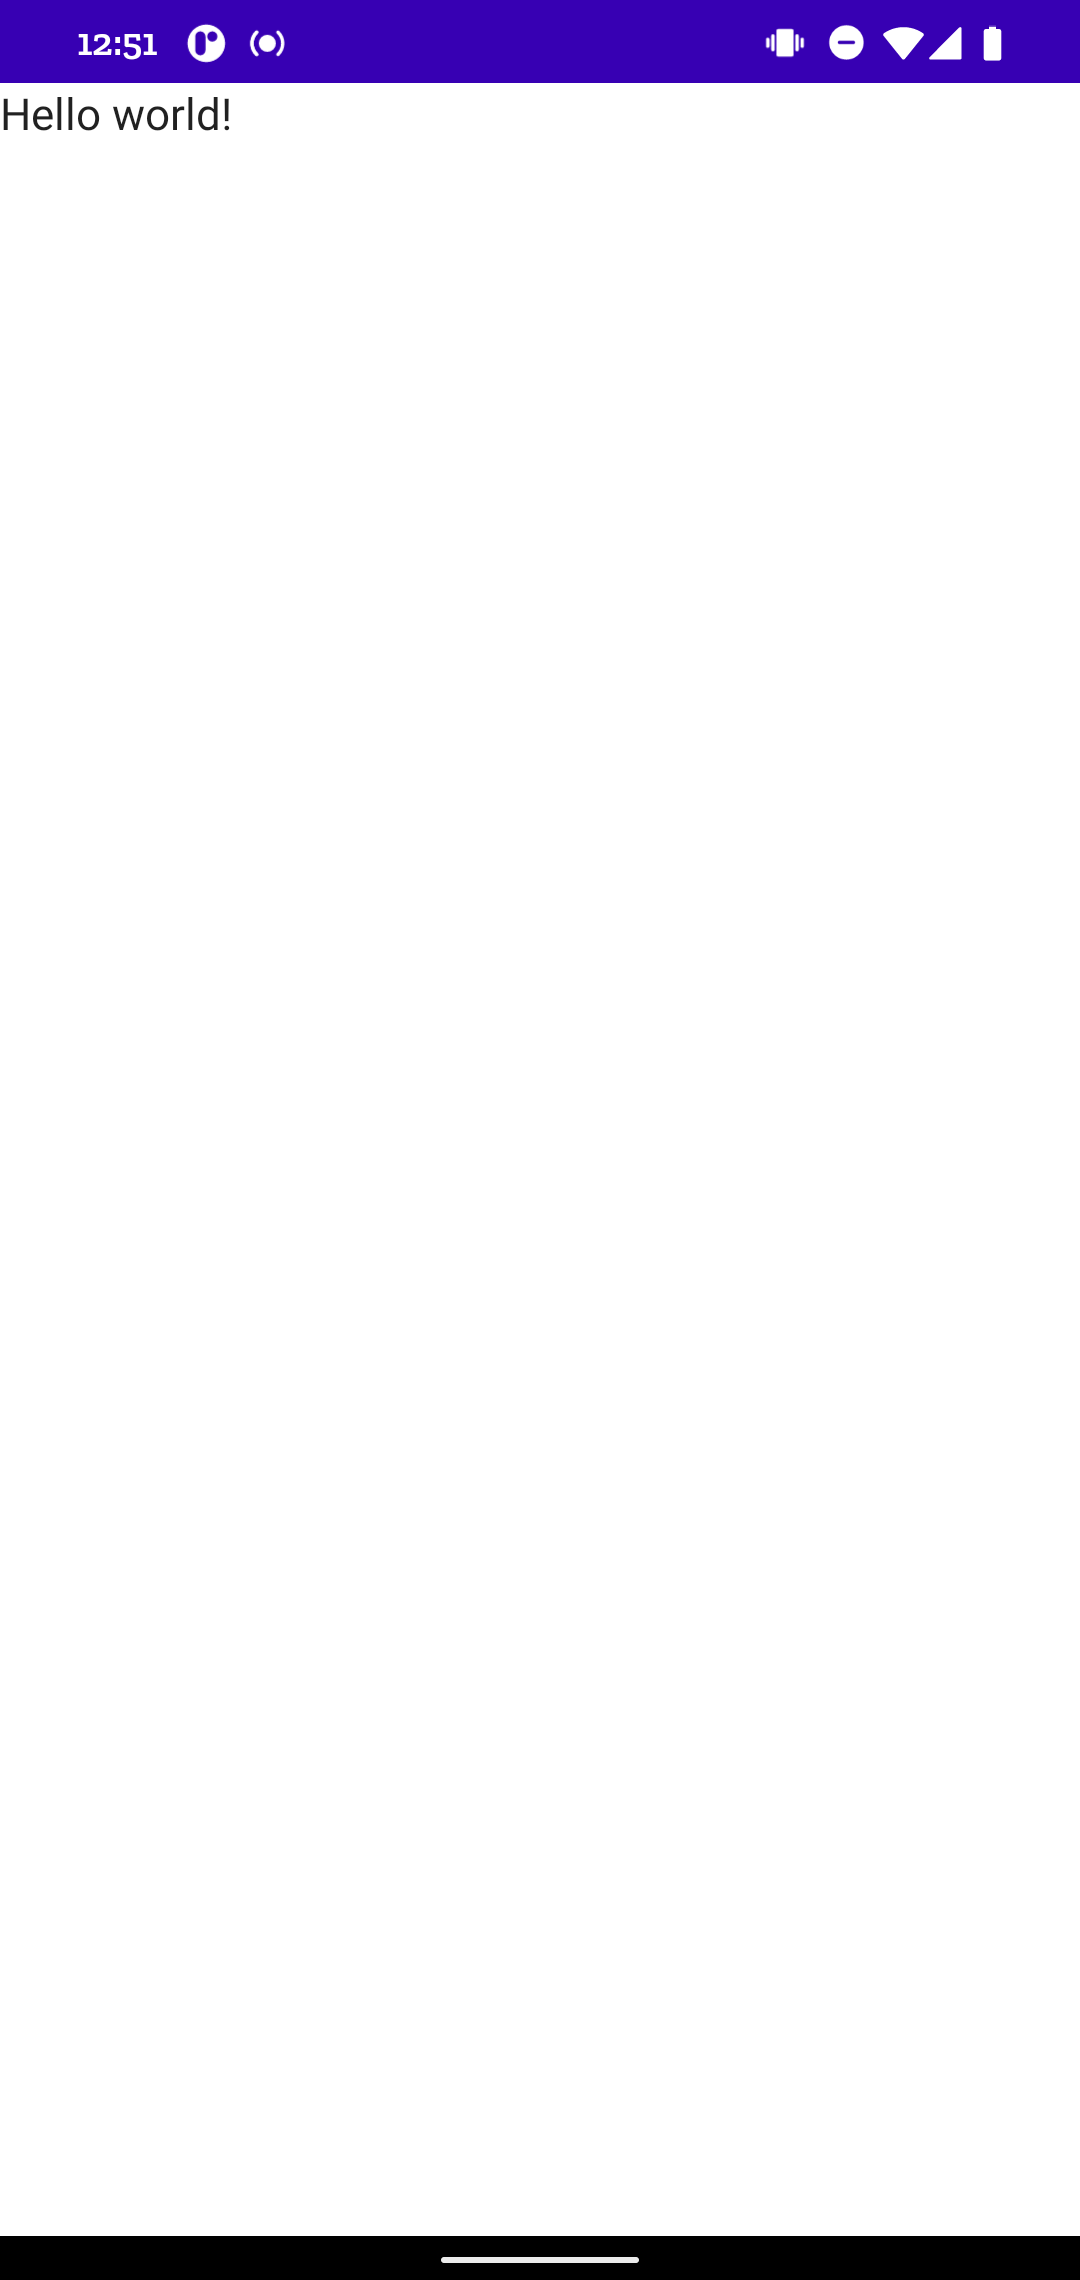
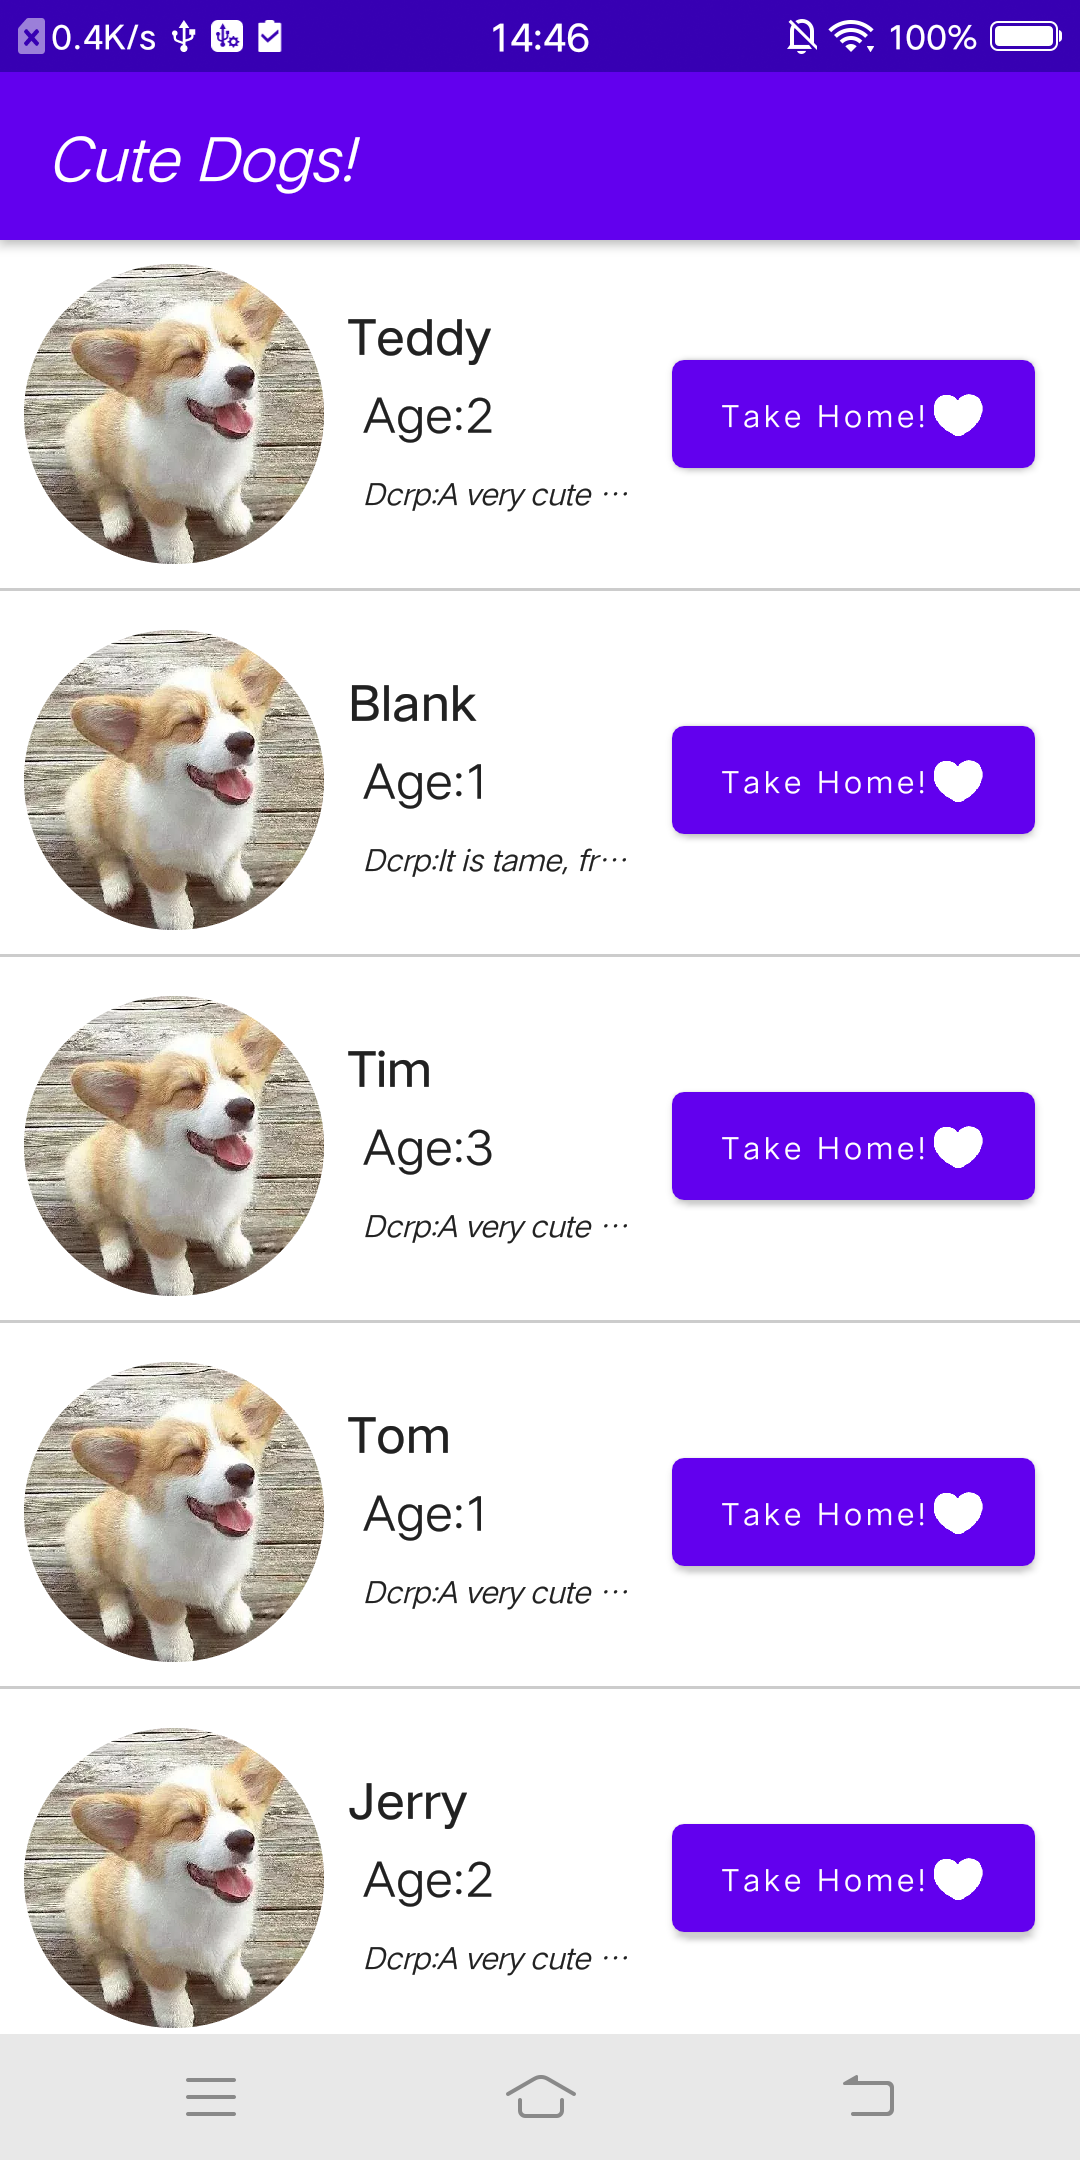
first

diff --git a/app/src/main/java/com/example/androiddevchallenge/MainActivity.kt b/app/src/main/java/com/example/androiddevchallenge/MainActivity.kt
@@ -16,16 +16,42 @@
 package com.example.androiddevchallenge
 
 import android.os.Bundle
+import android.util.Log
+import android.widget.Toast
 import androidx.activity.compose.setContent
+import androidx.activity.viewModels
 import androidx.appcompat.app.AppCompatActivity
-import androidx.compose.material.MaterialTheme
-import androidx.compose.material.Surface
-import androidx.compose.material.Text
+import androidx.compose.foundation.Image
+import androidx.compose.foundation.background
+import androidx.compose.foundation.clickable
+import androidx.compose.foundation.layout.*
+import androidx.compose.foundation.lazy.LazyColumn
+import androidx.compose.foundation.lazy.items
+import androidx.compose.foundation.shape.CircleShape
+import androidx.compose.material.*
 import androidx.compose.runtime.Composable
+import androidx.compose.ui.Alignment
+import androidx.compose.ui.Modifier
+import androidx.compose.ui.graphics.Color
+import androidx.compose.ui.layout.ContentScale
+import androidx.compose.ui.platform.LocalContext
+import androidx.compose.ui.res.painterResource
+import androidx.compose.ui.text.font.FontStyle
+import androidx.compose.ui.text.font.FontWeight
+import androidx.compose.ui.text.style.TextAlign
+import androidx.compose.ui.text.style.TextOverflow
 import androidx.compose.ui.tooling.preview.Preview
+import androidx.compose.ui.unit.TextUnit
+import androidx.compose.ui.unit.dp
+import androidx.compose.ui.unit.sp
+import androidx.lifecycle.viewmodel.compose.viewModel
+import com.example.androiddevchallenge.ui.DogViewModel
+import com.example.androiddevchallenge.ui.data.DogItem
 import com.example.androiddevchallenge.ui.theme.MyTheme
+import com.google.android.material.internal.ContextUtils
 
 class MainActivity : AppCompatActivity() {
+    private val viewModel by viewModels<DogViewModel>()
     override fun onCreate(savedInstanceState: Bundle?) {
         super.onCreate(savedInstanceState)
         setContent {
@@ -34,13 +60,155 @@ class MainActivity : AppCompatActivity() {
             }
         }
     }
+
+    override fun onBackPressed() {
+        if (viewModel.curDog != null) {
+            viewModel.curDog = null
+        } else {
+            super.onBackPressed()
+        }
+    }
+}
+
+@Composable
+fun LoadDogs(dogList: List<DogItem>, onDogClick: (DogItem) -> Unit = {}) {
+    LazyColumn(verticalArrangement = Arrangement.spacedBy(5.dp)) {
+        items(dogList) { dog ->
+            DogItem(dog) {
+                onDogClick(it)
+            }
+            Divider(
+                color = Color.LightGray, modifier = Modifier
+                    .fillMaxWidth()
+                    .height(1.dp)
+            )
+        }
+    }
+}
+
+@Composable
+fun DogItem(dogItem: DogItem, onDogClick: (DogItem) -> Unit = {}) {
+    Row(
+        modifier = Modifier
+            .clickable(onClick = { onDogClick(dogItem) })
+            .fillMaxWidth()
+            .padding(8.dp), verticalAlignment = Alignment.CenterVertically
+    ) {
+        val context = LocalContext.current
+        Surface(
+            modifier = Modifier.size(100.dp),
+            shape = CircleShape,
+        ) {
+            Image(
+                painterResource(id = dogItem.avatar), contentDescription = "dog avatar",
+                contentScale = ContentScale.Crop
+            )
+        }
+
+        Column(
+            modifier = Modifier
+                .padding(start = 8.dp, end = 8.dp)
+                .align(Alignment.CenterVertically)
+        ) {
+            Text(dogItem.name, fontWeight = FontWeight.Bold)
+            Text("Age:${dogItem.age}", Modifier.padding(5.dp), textAlign = TextAlign.Left)
+            Text(
+                "Dcrp:${dogItem.discription}",
+                Modifier
+                    .width(100.dp)
+                    .padding(5.dp),
+                textAlign = TextAlign.Left,
+                maxLines = 1,
+                overflow = TextOverflow.Ellipsis,
+                fontSize = 10.sp,
+                fontStyle = FontStyle.Italic
+            )
+        }
+        Button(
+            onClick = {
+                dogItem.isAdopted = true
+                Toast.makeText(context, "Adopted", Toast.LENGTH_SHORT).show()
+            },
+            Modifier.width(IntrinsicSize.Max),
+        ) {
+            if (!dogItem.isAdopted) {
+                Text("Take Home!", fontSize = 10.sp, textAlign = TextAlign.Center, maxLines = 1)
+            } else {
+                Text("Adopted!", fontSize = 10.sp, textAlign = TextAlign.Center, maxLines = 1)
+            }
+            Icon(
+                painterResource(id = R.mipmap.like),
+                contentDescription = "like",
+                Modifier.size(20.dp)
+            )
+        }
+    }
+}
+
+@Composable
+fun DogDetail(dogItem: DogItem) {
+    Column(
+        modifier = Modifier
+            .fillMaxSize()
+            .background(Color.White)
+            .padding(start = 8.dp, end = 8.dp)
+    ) {
+        val context = LocalContext.current
+        Image(
+            painterResource(dogItem.avatar),
+            "dog avatar ",
+            Modifier.aspectRatio(1f),
+            contentScale = ContentScale.Crop
+        )
+        Text("${dogItem.name}", fontWeight = FontWeight.Bold)
+        Text("Age:${dogItem.age}", Modifier.padding(5.dp), textAlign = TextAlign.Left)
+        Text(
+            "Description:${dogItem.discription}",
+            Modifier
+                .padding(5.dp),
+            textAlign = TextAlign.Left,
+            fontSize = 12.sp,
+            fontStyle = FontStyle.Italic
+        )
+        Button(
+            onClick = {
+                dogItem.isAdopted = true
+                Toast.makeText(context, "Adopted", Toast.LENGTH_SHORT).show()
+            },
+            Modifier.width(IntrinsicSize.Max)
+        ) {
+            if (!dogItem.isAdopted) {
+                Text("Take Home!", fontSize = 18.sp, textAlign = TextAlign.Center, maxLines = 1)
+            } else {
+                Text("Adopted!", fontSize = 18.sp, textAlign = TextAlign.Center, maxLines = 1)
+            }
+            Icon(
+                painterResource(id = R.mipmap.like),
+                contentDescription = "like",
+                Modifier.size(20.dp)
+            )
+        }
+    }
 }
 
 // Start building your app here!
 @Composable
 fun MyApp() {
-    Surface(color = MaterialTheme.colors.background) {
-        Text(text = "Ready... Set... GO!")
+    Scaffold(
+        topBar = {
+            TopAppBar(title = { Text(text = "Cute Dogs!", fontStyle = FontStyle.Italic) })
+        }
+    ) {
+        val dogViewModel: DogViewModel = viewModel()
+        LoadDogs(dogViewModel.dogList) {
+            Log.v("TAG", "dog----")
+            if (dogViewModel.curDog == null) {
+                dogViewModel.curDog = it
+            }
+        }
+        if (dogViewModel.curDog != null) {
+            DogDetail(dogItem = dogViewModel.curDog!!)
+        }
     }
 }
 

diff --git a/app/src/main/java/com/example/androiddevchallenge/ui/DogViewModel.kt b/app/src/main/java/com/example/androiddevchallenge/ui/DogViewModel.kt
@@ -1,4 +1,31 @@
 package com.example.androiddevchallenge.ui
 
-class DogViewModel {
+import androidx.compose.runtime.getValue
+import androidx.compose.runtime.mutableStateOf
+import androidx.compose.runtime.setValue
+import androidx.lifecycle.ViewModel
+import com.example.androiddevchallenge.R
+import com.example.androiddevchallenge.ui.data.DogItem
+
+class DogViewModel() : ViewModel() {
+
+    val dogList = ArrayList<DogItem>()
+
+    var curDog: DogItem? by mutableStateOf(null)
+
+
+    init {
+        dogList.add(DogItem("1", "Teddy", 2, R.mipmap.keji, "A very cute baby"))
+        dogList.add(DogItem("2", "Blank", 1, R.mipmap.keji, "It is tame, friendly and easy to communicate with. I have kept one in my house, whose name is Chocolate. She is covered with brown curly hair and looks like a Teddy Bear. Now we have been living together for two years, so I’m very familiar with her characteristics. When she is hungry, she often barks loudly. At that time, I begin to realize that it’s time to feed her. She is keen on beef and fish. Sometimes, she also eats some rice."))
+        dogList.add(DogItem("3", "Tim", 3, R.mipmap.keji, "A very cute baby"))
+        dogList.add(DogItem("4", "Tom", 1, R.mipmap.keji, "A very cute baby"))
+        dogList.add(DogItem("5", "Jerry", 2, R.mipmap.keji, "A very cute baby"))
+        dogList.add(DogItem("6", "KaKa", 2, R.mipmap.keji, "A very cute baby"))
+        dogList.add(DogItem("7", "Timmy", 1, R.mipmap.keji, "A very cute baby"))
+        dogList.add(DogItem("8", "CoCo", 3, R.mipmap.keji, "A very cute baby"))
+        dogList.add(DogItem("9", "Spike", 1, R.mipmap.keji, "A very cute baby"))
+        dogList.add(DogItem("10", "Avenger", 2, R.mipmap.keji, "A very cute baby"))
+    }
+
+
 }

diff --git a/app/src/main/java/com/example/androiddevchallenge/ui/data/DogItem.kt b/app/src/main/java/com/example/androiddevchallenge/ui/data/DogItem.kt
@@ -1,3 +1,13 @@
 package com.example.androiddevchallenge.ui.data
 
-data class DogItem()
+import androidx.annotation.DrawableRes
+
+data class DogItem(
+    val id: String,
+    val name: String,
+    val age: Int,
+    @DrawableRes val avatar: Int,
+    var discription: String
+) {
+    var isAdopted: Boolean = false
+}

diff --git a/README-template.md b/README-template.md
@@ -2,7 +2,7 @@
 
 <!--- Replace <OWNER> with your Github Username and <REPOSITORY> with the name of your repository. -->
 <!--- You can find both of these in the url bar when you open your repository in github. -->
-![Workflow result](https://github.com/<OWNER>/<REPOSITORY>/workflows/Check/badge.svg)
+![Workflow result](https://github.com/Doraemon123/ComposeStudy1/workflows/Check/badge.svg)
 
 
 ## :scroll: Description
@@ -17,6 +17,7 @@
 ## :camera_flash: Screenshots
 <!-- You can add more screenshots here if you like -->
 <img src="/results/screenshot_1.png" width="260">&emsp;<img src="/results/screenshot_2.png" width="260">
+
 
 ## License
 ```
